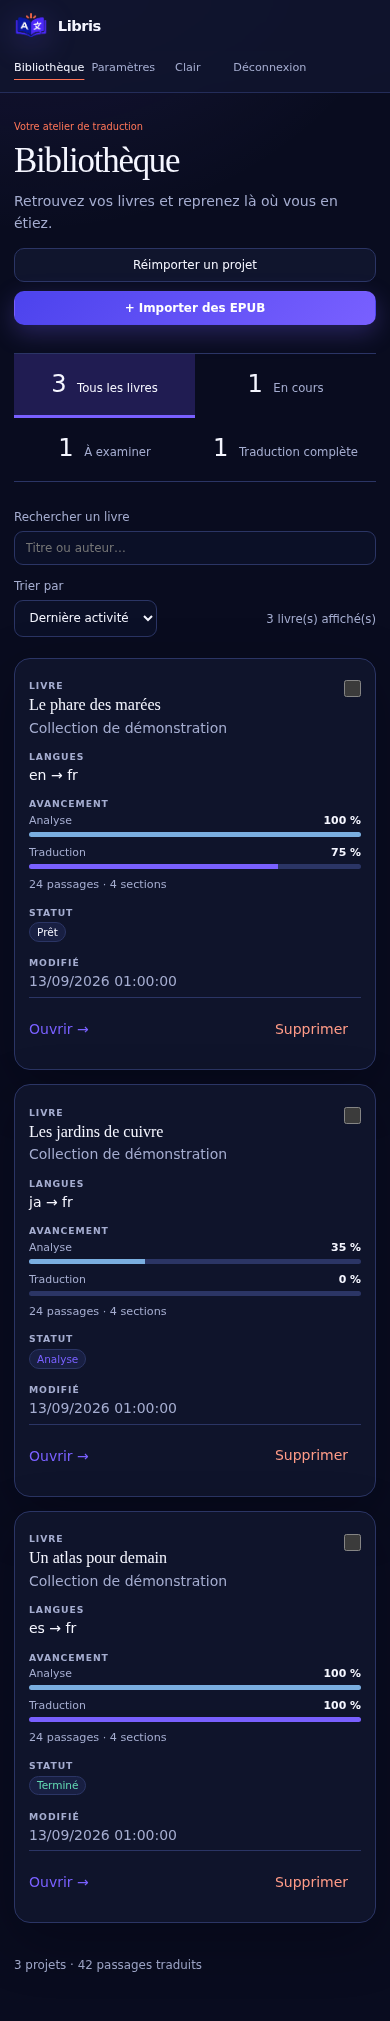
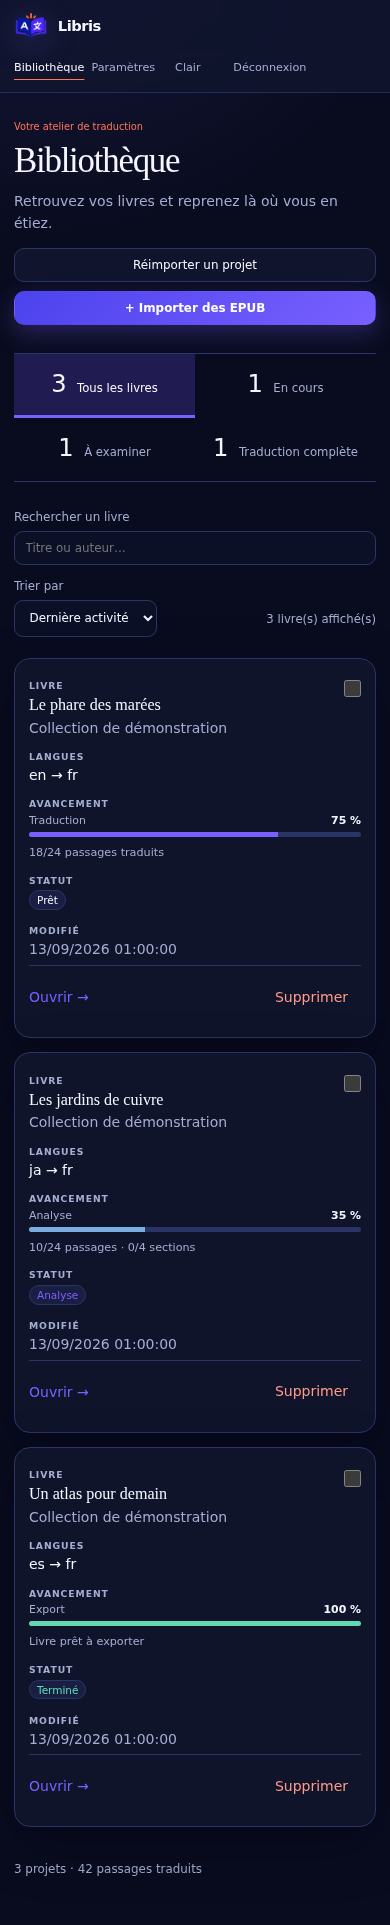
Show one active-stage progress bar per book

diff --git a/frontend/src/features/BookProgress.tsx b/frontend/src/features/BookProgress.tsx
@@ -2,46 +2,68 @@ import type { Project } from "../types";
 
 export function BookProgress({ project }: { project: Project }) {
   const stats = project.stats;
-  const work = stats.total + stats.chapters;
-  const done =
+  const analysisTotal = stats.total + stats.chapters;
+  const analysisDone =
     (stats.analyzed_segments || 0) + (stats.synthesized_chapters || 0);
-  const analysis = work ? Math.min(100, Math.floor((done / work) * 100)) : 0;
+  const analysis = analysisTotal
+    ? Math.min(100, Math.floor((analysisDone / analysisTotal) * 100))
+    : 0;
   const translation = stats.total
     ? Math.min(100, Math.floor((stats.translated / stats.total) * 100))
     : 0;
+  const review = stats.total
+    ? Math.min(
+        100,
+        Math.floor(((stats.reviewed_segments || 0) / stats.total) * 100),
+      )
+    : 0;
+  const analysisStage = {
+    key: "analysis",
+    label: "Analyse",
+    value: analysis,
+    detail: `${stats.analyzed_segments || 0}/${stats.total} passages · ${stats.synthesized_chapters || 0}/${stats.chapters} sections`,
+  };
+  let stage: { key: string; label: string; value: number; detail: string };
+  if (project.status === "completed") {
+    stage = {
+      key: "export",
+      label: "Export",
+      value: 100,
+      detail: "Livre prêt à exporter",
+    };
+  } else if (project.status === "analyzing") {
+    stage = analysisStage;
+  } else if (project.status === "reviewing" || translation === 100) {
+    stage = {
+      key: "review",
+      label: "Relecture",
+      value: review,
+      detail: `${stats.reviewed_segments || 0}/${stats.total} passages relus`,
+    };
+  } else if (project.status === "translating" || analysis === 100) {
+    stage = {
+      key: "translation",
+      label: "Traduction",
+      value: translation,
+      detail: `${stats.translated}/${stats.total} passages traduits`,
+    };
+  } else {
+    stage = analysisStage;
+  }
   return (
     <div className="book-progress">
-      <div
-        className="analysis-progress"
-        title={`${stats.analyzed_segments || 0}/${stats.total} passages analysés · ${stats.synthesized_chapters || 0}/${stats.chapters} sections synthétisées`}
-      >
+      <div className={`${stage.key}-progress`} title={stage.detail}>
         <div className="progress-label">
-          <span>Analyse</span>
-          <strong>{analysis} %</strong>
+          <span>{stage.label}</span>
+          <strong>{stage.value} %</strong>
         </div>
         <progress
-          aria-label={`Analyse de ${project.title}`}
+          aria-label={`${stage.label} de ${project.title}`}
           max={100}
-          value={analysis}
+          value={stage.value}
         />
       </div>
-      <div
-        className="translation-progress"
-        title={`${stats.translated}/${stats.total} passages traduits${stats.retained_source ? ` · ${stats.retained_source} originaux conservés` : ""}`}
-      >
-        <div className="progress-label">
-          <span>Traduction</span>
-          <strong>{translation} %</strong>
-        </div>
-        <progress
-          aria-label={`Traduction de ${project.title}`}
-          max={100}
-          value={translation}
-        />
-      </div>
-      <small>
-        {stats.total} passages · {stats.chapters} sections
-      </small>
+      <small>{stage.detail}</small>
     </div>
   );
 }

diff --git a/frontend/e2e/progress-refresh.spec.ts b/frontend/e2e/progress-refresh.spec.ts
@@ -9,7 +9,7 @@ const config = Object.fromEntries(
 );
 const base = `http://${config.BIND_ADDRESS}:${config.PORT}`;
 
-test("library has separate analysis/translation progress and refresh reloads metrics", async ({
+test("library shows active-stage progress and refresh reloads metrics", async ({
   page,
 }) => {
   const login = await page.request.post(`${base}/api/auth/login`, {
@@ -31,26 +31,37 @@ test("library has separate analysis/translation progress and refresh reloads met
     projects.find((p: { title: string }) => p.title.endsWith("Vol. 1")) ||
     projects[0];
   test.skip(!project, "This read-only UI check needs an existing book.");
-  const analysis = page.getByRole("progressbar", {
-    name: `Analyse de ${project.title}`,
+  const analysis = Math.floor(
+    ((project.stats.analyzed_segments + project.stats.synthesized_chapters) /
+      (project.stats.total + project.stats.chapters)) *
+      100,
+  );
+  const translation = Math.floor(
+    (project.stats.translated / project.stats.total) * 100,
+  );
+  const review = Math.floor(
+    ((project.stats.reviewed_segments || 0) / project.stats.total) * 100,
+  );
+  const expected =
+    project.status === "completed"
+      ? { label: "Export", value: 100 }
+      : project.status === "analyzing"
+        ? { label: "Analyse", value: analysis }
+        : project.status === "reviewing" || translation === 100
+          ? { label: "Relecture", value: review }
+          : project.status === "translating" || analysis === 100
+            ? { label: "Traduction", value: translation }
+            : { label: "Analyse", value: analysis };
+  const row = page
+    .getByRole("link", { name: project.title, exact: true })
+    .locator("xpath=ancestor::tr");
+  await expect(row.getByRole("progressbar")).toHaveCount(1);
+  const progress = row.getByRole("progressbar", {
+    name: `${expected.label} de ${project.title}`,
     exact: true,
   });
-  const translation = page.getByRole("progressbar", {
-    name: `Traduction de ${project.title}`,
-    exact: true,
-  });
-  await expect(analysis).toBeVisible();
-  await expect(translation).toBeVisible();
-  expect(Number(await analysis.getAttribute("value"))).toBe(
-    Math.floor(
-      ((project.stats.analyzed_segments + project.stats.synthesized_chapters) /
-        (project.stats.total + project.stats.chapters)) *
-        100,
-    ),
-  );
-  expect(Number(await translation.getAttribute("value"))).toBe(
-    Math.floor((project.stats.translated / project.stats.total) * 100),
-  );
+  await expect(progress).toBeVisible();
+  expect(Number(await progress.getAttribute("value"))).toBe(expected.value);
   await page.screenshot({ path: "/tmp/libris/epub-library-progress.png" });
   await page.goto(`${base}/#project/${project.id}`);
   await page.getByRole("button", { name: /Validations/ }).click();

diff --git a/frontend/e2e/showcase.spec.ts b/frontend/e2e/showcase.spec.ts
@@ -138,6 +138,22 @@ test("capture public Libris showcase", async ({ page }) => {
   await expect(
     page.getByRole("heading", { name: "Bibliothèque", exact: true }),
   ).toBeVisible();
+  await expect(page.getByRole("progressbar")).toHaveCount(3);
+  await expect(
+    page.getByRole("progressbar", {
+      name: "Traduction de Le phare des marées",
+    }),
+  ).toHaveAttribute("value", "75");
+  await expect(
+    page.getByRole("progressbar", {
+      name: "Analyse de Les jardins de cuivre",
+    }),
+  ).toHaveAttribute("value", "35");
+  await expect(
+    page.getByRole("progressbar", {
+      name: "Export de Un atlas pour demain",
+    }),
+  ).toHaveAttribute("value", "100");
   await page.screenshot({ path: resolve(output, "library.png") });
   await page.getByRole("button", { name: /En cours/ }).click();
   await expect(page.locator(".library-table tbody tr")).toHaveCount(1);

diff --git a/frontend/src/style.css b/frontend/src/style.css
@@ -380,6 +380,18 @@ tbody tr:hover {
 .book-progress .translation-progress progress::-moz-progress-bar {
   background: var(--accent);
 }
+.book-progress .review-progress progress::-webkit-progress-value {
+  background: var(--coral);
+}
+.book-progress .review-progress progress::-moz-progress-bar {
+  background: var(--coral);
+}
+.book-progress .export-progress progress::-webkit-progress-value {
+  background: var(--green);
+}
+.book-progress .export-progress progress::-moz-progress-bar {
+  background: var(--green);
+}
 .badge {
   font-size: 0.75rem;
   display: inline-block;

diff --git a/docs/verification-update.md b/docs/verification-update.md
@@ -8,7 +8,7 @@ Vérifications exécutées pendant l’implémentation :
 - Test Docker réel : HTTP 503 → attente persistante ; pause volontaire conservée après redémarrage ; SIGTERM pendant l’inférence → reprise sans retraduire les étapes terminées ; pause en cours de requête → interruption auditée.
 - Test navigateur import multiple, graphe, fusion, alias, lien validé, conservation d’un brouillon lors d’Actualiser et suppression depuis la bibliothèque : réussi.
 - Test navigateur sélection multiple : pause, reprise, annulation des analyses, annulation des traductions et suppression confirmée : réussi.
-- Test navigateur sur la bibliothèque existante : deux progressions indépendantes par livre et actualisation effective des métriques : réussi.
+- Test navigateur sur la bibliothèque existante : une barre unique liée à l’étape active de chaque livre et actualisation effective des métriques : réussi.
 - Test navigateur synthétique des cinq étapes : une seule barre visible, sélection de chaque étape, absence de débordement mobile et export marqué terminé uniquement après réception du fichier : réussi.
 - Tome 1 utilisé pour la vérification OpenViking : `book.md`, `book-bible.json`, `characters.json` et `relationships.json` lus et identiques au snapshot SQL publié ; catalogue retrouvé dans l’index. Cela ne prouve pas l’indexation exhaustive de chaque événement.
 - Audit indicatif des résumés automatiques déjà stockés : aucun candidat évident de refus détecté par le détecteur. Une relecture demeure nécessaire pour qualifier la fidélité littéraire.

diff --git a/README.md b/README.md
@@ -50,7 +50,7 @@ _Screenshots use fictional, synthetic demonstration data in the real UI. They do
 
 ### Navigating Libris
 
-The library includes title/author search, activity filters and sorting. Inside a book, navigation groups translation and recovery, book memory, and configuration. Desktop navigation stays accessible while reviewing; mobile navigation is horizontally scrollable.
+The library includes title/author search, activity filters and sorting. Each book shows one progress bar for its current stage instead of stacking unrelated metrics. Inside a book, navigation groups translation and recovery, book memory, and configuration. Desktop navigation stays accessible while reviewing; mobile navigation is horizontally scrollable.
 
 <details>
 <summary>Light theme and mobile review</summary>
